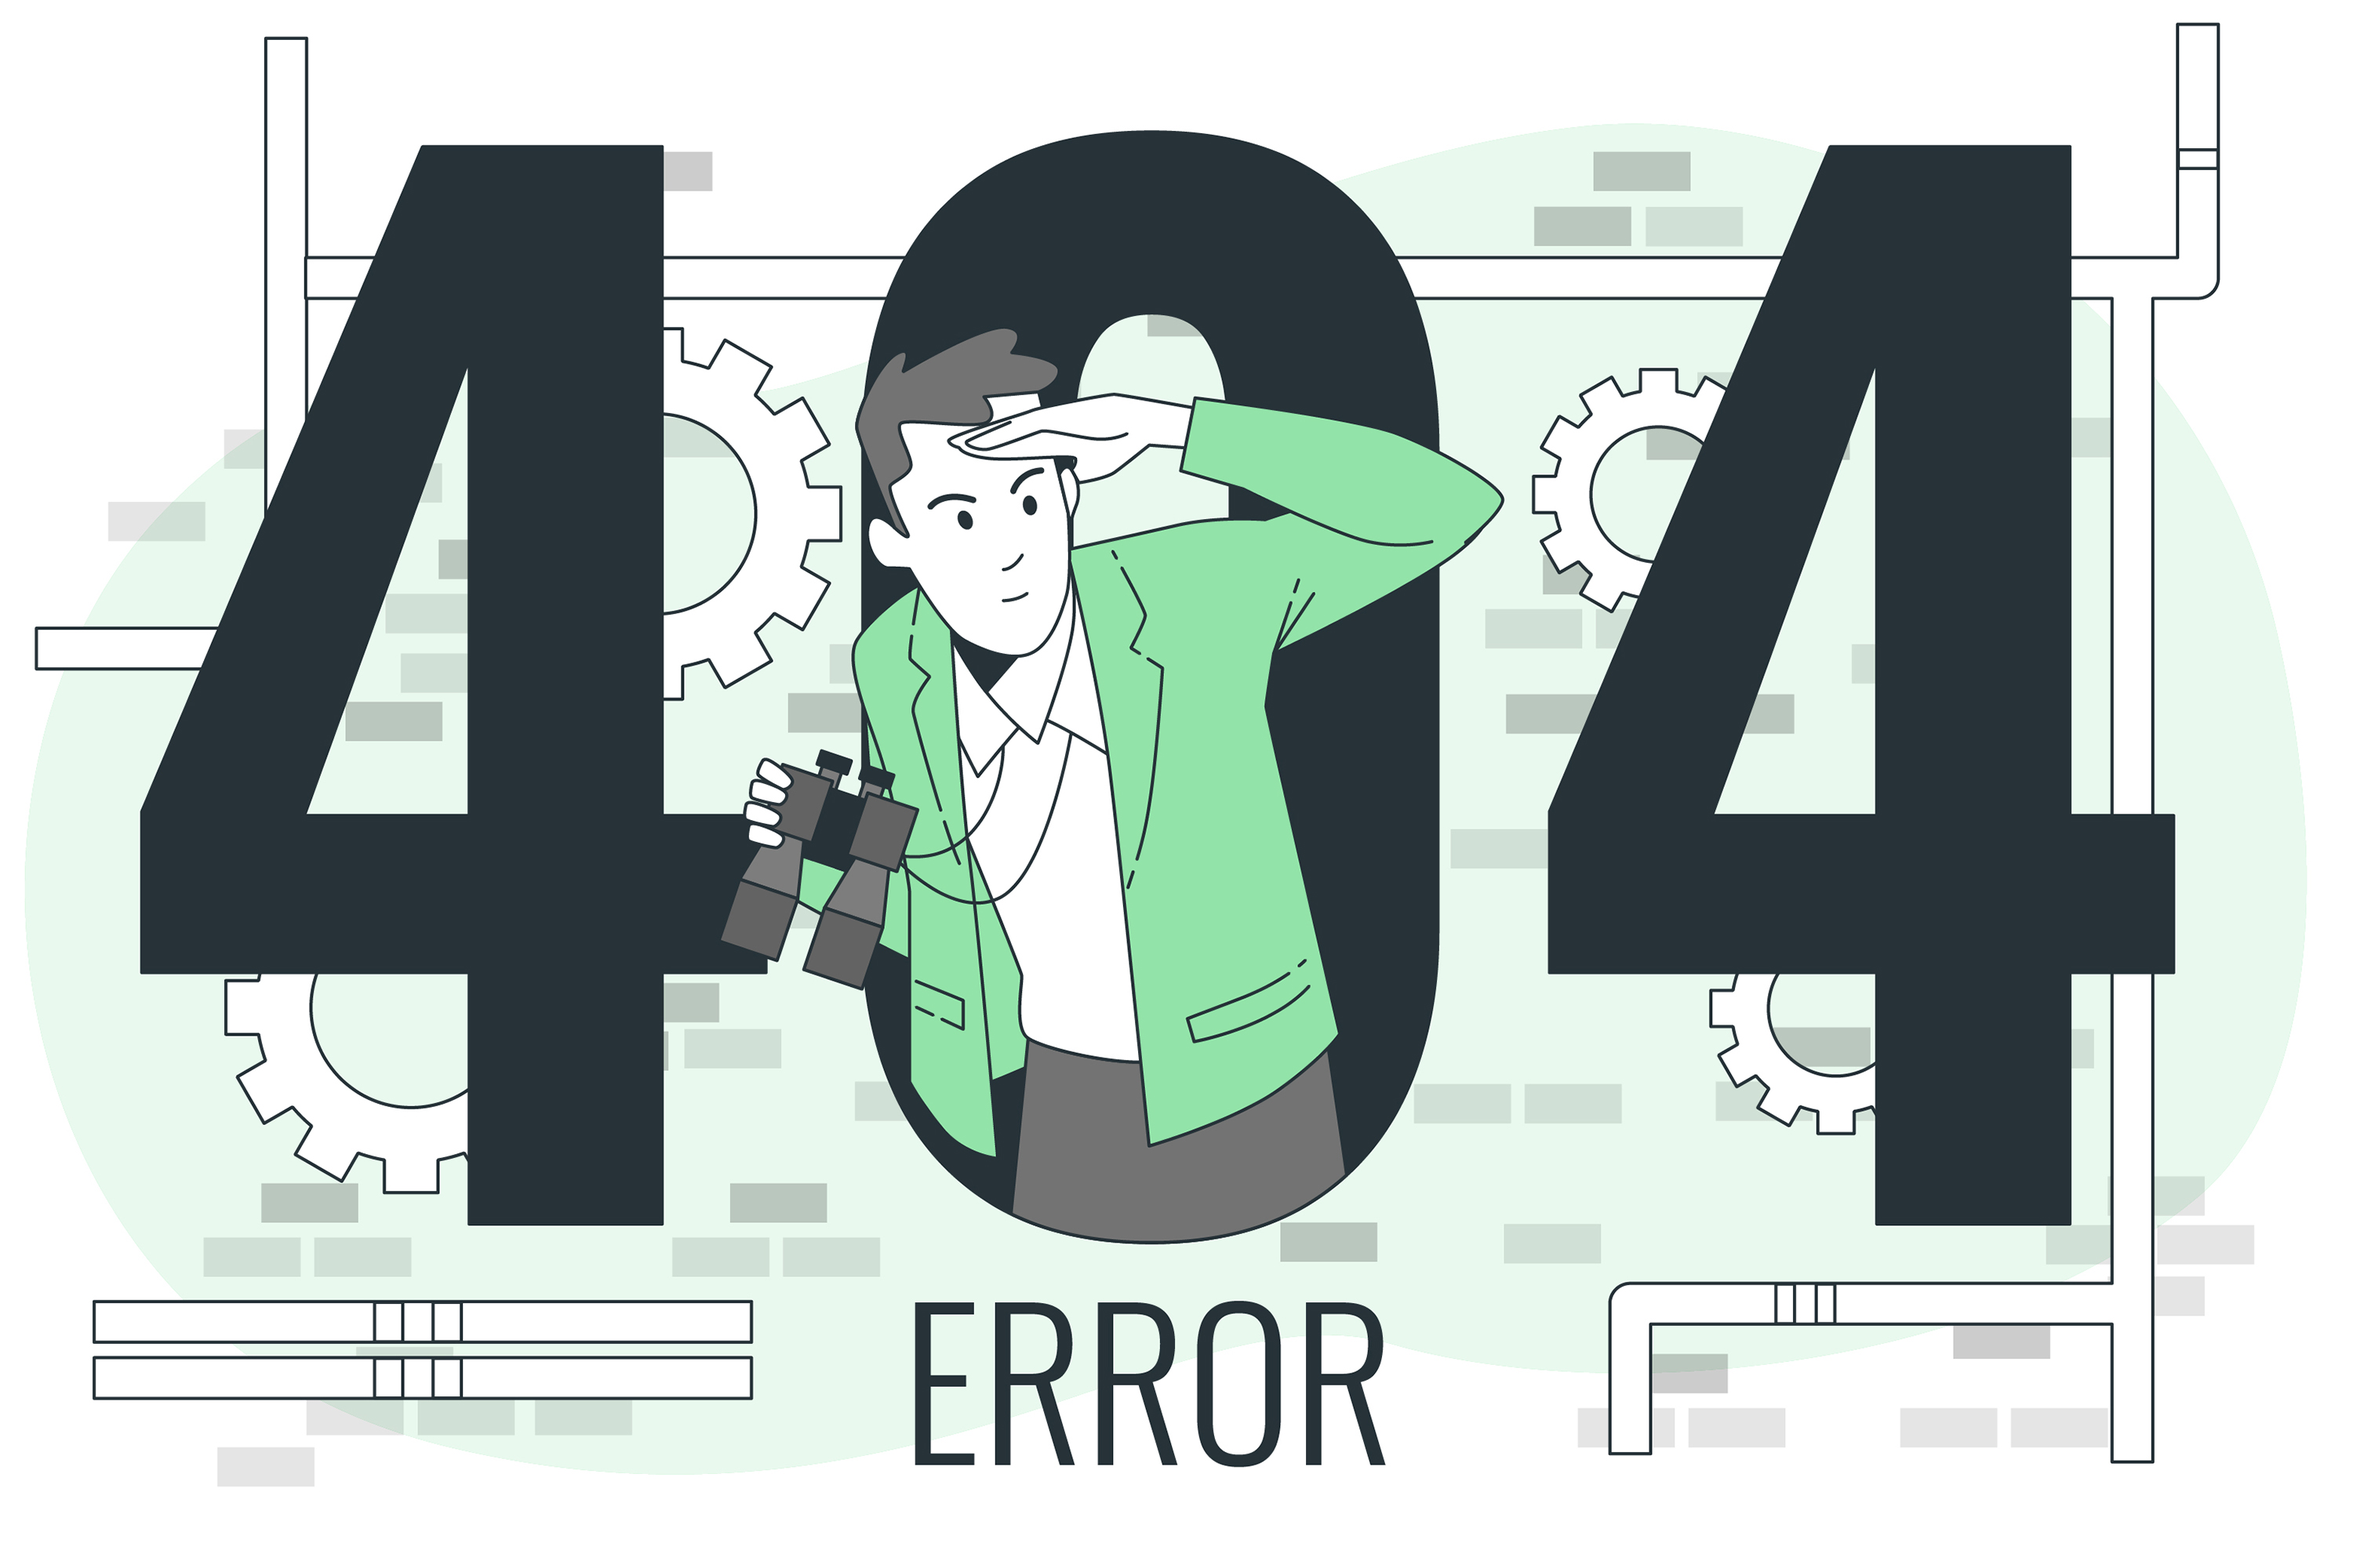
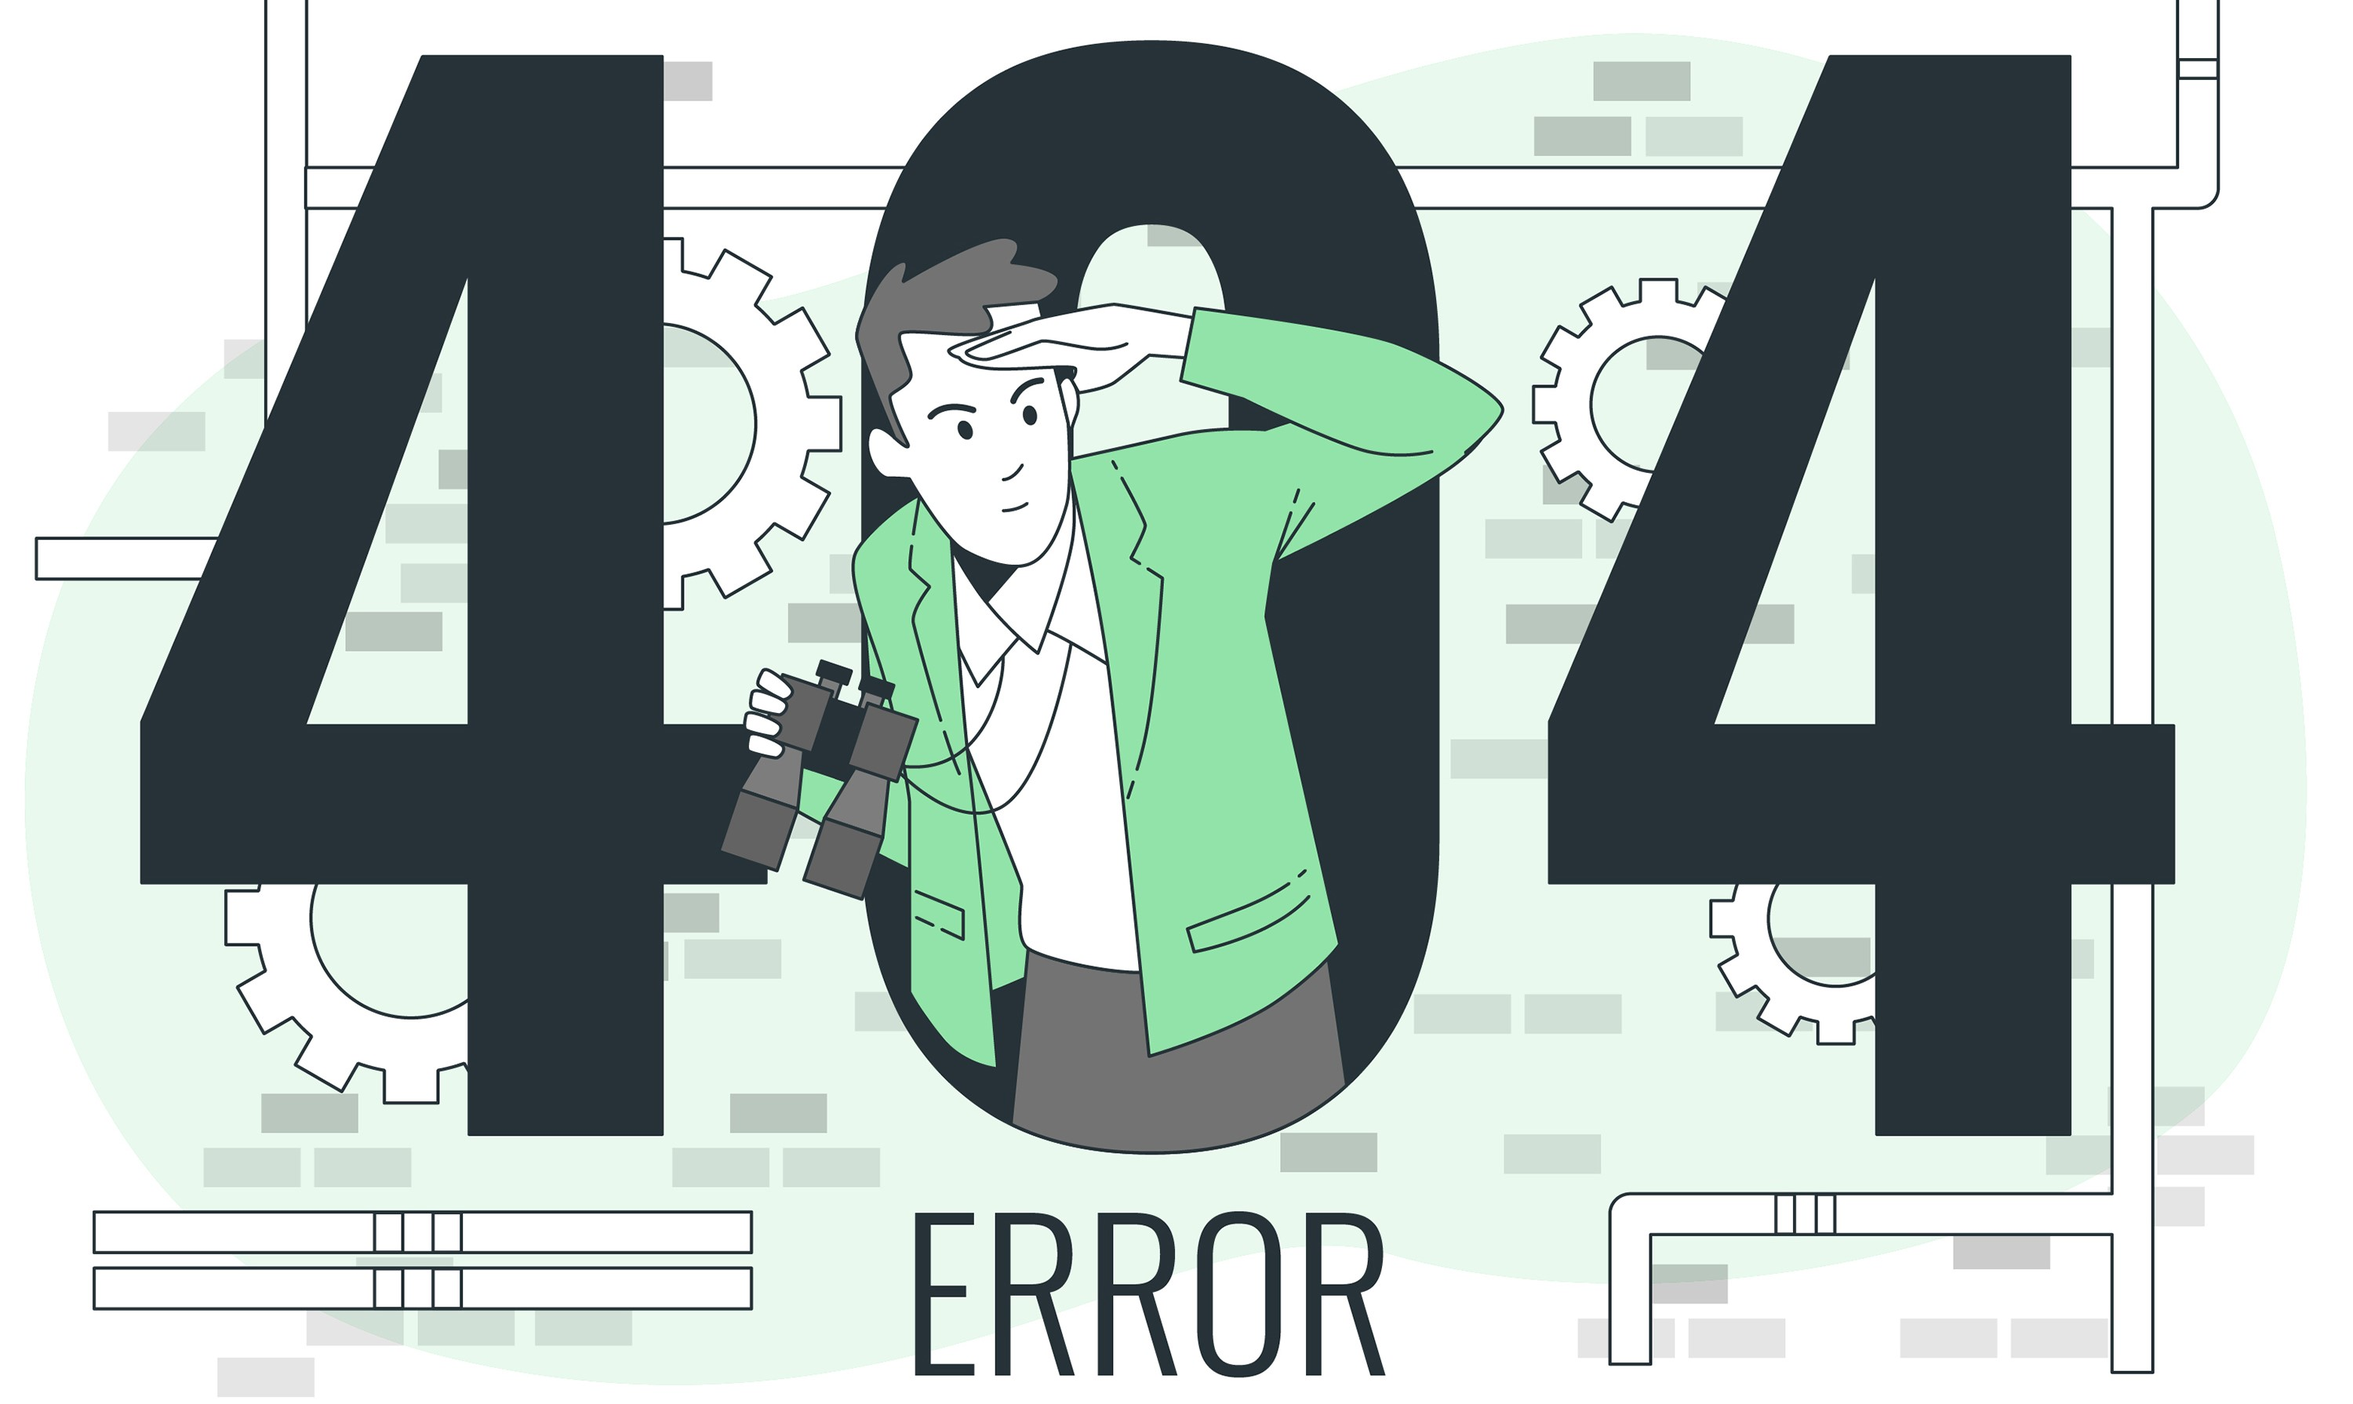
something done

diff --git a/src/components/AdminDashboard/AdminDashboard.js b/src/components/AdminDashboard/AdminDashboard.js
@@ -1,27 +1,75 @@
-import React from "react";
-// import { Link, Outlet } from "react-router-dom";
+import React, { useEffect, useState } from "react";
+import info from "../../assets/images/logo/info.png";
+import manage from "../../assets/images/logo/manage.png";
+import { Link } from "react-router-dom";
 
 const Dashboard = () => {
+  const [users, setUsers] = useState([]);
+  useEffect(() => {
+    fetch("https://floating-gorge-66618.herokuapp.com/user")
+      .then((res) => res.json())
+      .then((data) => setUsers(data));
+  }, []);
+
   return (
-    <div className="drawer drawer-end">
-      <input id="my-drawer-4" type="checkbox" className="drawer-toggle" />
-      <div className="drawer-content">
-        {/* <!-- Page content here --> */}
-        <label htmlFor="my-drawer-4" className="drawer-button btn btn-primary">
-          Open drawer
-        </label>
+    <div className="grid grid-cols-1 lg:grid-cols-4 gap-5 mt-10">
+      <div className="bg-blue-400 border rounded-lg h-40 flex justify-evenly items-center">
+        <div>
+          <h1 className="font-bold text-3xl  text-white font-serif">
+            {users.length}K
+          </h1>
+          <h3 className="font-bold text-xl  text-white font-serif">Users</h3>
+        </div>
+        <Link
+          to="/admin/dashboard/users"
+          className="flex  btn btn-ghost btn-sm"
+        >
+          <h5 className="font-semibold font-serif text-white">Manage Admin</h5>
+          <img className="w-5 ml-1" src={manage} alt="" />
+        </Link>
       </div>
-      <div className="drawer-side">
-        <label htmlFor="my-drawer-4" className="drawer-overlay"></label>
-        <ul className="menu p-4 w-80 bg-base-100 text-base-content">
-          {/* <!-- Sidebar content here --> */}
-          <li>
-            <a>Sidebar Item 1</a>
-          </li>
-          <li>
-            <a>Sidebar Item 2</a>
-          </li>
-        </ul>
+      <div className="bg-green-400 border rounded-lg h-40 flex justify-evenly items-center">
+        <div>
+          <h1 className="font-bold text-3xl  text-white font-serif">
+            {users.length + 1}K
+          </h1>
+          <h3 className="font-bold text-xl  text-white font-serif">Books</h3>
+        </div>
+        <div className="flex">
+          <h5 className="font-semibold font-serif text-white">Details </h5>
+          <img className="w-5 ml-1" src={info} alt="" />
+        </div>
+      </div>
+      <div className="bg-yellow-400 border rounded-lg h-40 flex justify-evenly items-center">
+        <div>
+          <h1 className="font-bold text-3xl  text-white font-serif">
+            {users.length}00
+          </h1>
+          <h3 className="font-bold text-xl  text-white font-serif">Reviews</h3>
+        </div>
+        <div className="flex">
+          <h5 className="font-semibold font-serif text-white">Details </h5>
+          <img className="w-5 ml-1" src={info} alt="" />
+        </div>
+      </div>
+      <div className="bg-red-400 border rounded-lg h-40 flex justify-evenly items-center">
+        <div>
+          <h1 className="font-bold text-3xl  text-white font-serif">
+            {users.length}
+          </h1>
+          <h3 className="font-bold text-xl  text-white font-serif">
+            Librarian
+          </h3>
+        </div>
+        <div className="flex">
+          <Link
+            to="/admin/dashboard/librarians"
+            className="font-semibold text-xs font-serif text-white flex  btn btn-ghost btn-sm"
+          >
+            Manage <br /> Librarian
+            <img className="w-5 ml-1" src={manage} alt="" />
+          </Link>
+        </div>
       </div>
     </div>
   );

diff --git a/src/components/AdminDashboard/SingleUser.js b/src/components/AdminDashboard/SingleUser.js
@@ -1,9 +1,9 @@
 import React from "react";
 
-const User = ({ serial, user }) => {
-  const handleMakeAdmin = () => {
+const SingleUser = ({ serial, user }) => {
+  const handleMakeLibrarian = () => {
     fetch(
-      `https://floating-gorge-66618.herokuapp.com/user/admin/${user.email}`,
+      `https://floating-gorge-66618.herokuapp.com/user/librarian/${user.email}`,
       {
         method: "PUT",
         headers: {
@@ -13,7 +13,7 @@ const User = ({ serial, user }) => {
     )
       .then((res) => {
         if (res.status === 403) {
-          alert(`Failed to Make Admin ${user.admin}`);
+          alert(`Failed to Make Librarian ${user.admin}`);
         }
         return res.json();
       })
@@ -26,7 +26,7 @@ const User = ({ serial, user }) => {
   };
   const handleRemoveAccess = () => {
     fetch(
-      `https://floating-gorge-66618.herokuapp.com/user/removeAdmin/${user.email}`,
+      `https://floating-gorge-66618.herokuapp.com/user/removeLibrarian/${user.email}`,
       {
         method: "PUT",
         headers: {
@@ -36,7 +36,7 @@ const User = ({ serial, user }) => {
     )
       .then((res) => {
         if (res.status === 403) {
-          alert(`Failed to remove Admin ${user.email}`);
+          alert(`Failed to remove Librarian ${user.email}`);
         }
         return res.json();
       })
@@ -62,6 +62,7 @@ const User = ({ serial, user }) => {
           {user.role === "admin" && (
             <button
               onClick={handleRemoveAccess}
+              disabled
               className="btn btn-xs btn-error text-white font-serif hover:bg-white hover:text-error"
             >
               Remove Access
@@ -69,7 +70,6 @@ const User = ({ serial, user }) => {
           )}
           {user.role === "librarian" && (
             <button
-              disabled
               onClick={handleRemoveAccess}
               className="btn btn-xs btn-error text-white font-serif hover:bg-white hover:text-error"
             >
@@ -78,10 +78,10 @@ const User = ({ serial, user }) => {
           )}
           {!user.role && (
             <button
-              onClick={handleMakeAdmin}
-              className="btn btn-xs btn-success text-white font-serif hover:bg-white hover:text-success "
+              onClick={handleMakeLibrarian}
+              className="btn btn-xs btn-success text-white font-serif hover:bg-white hover:text-success"
             >
-              Make Admin
+              Make Librarian
             </button>
           )}
         </td>
@@ -90,4 +90,4 @@ const User = ({ serial, user }) => {
   );
 };
 
-export default User;
+export default SingleUser;

diff --git a/src/components/AdminDashboard/LibrarianManage.js b/src/components/AdminDashboard/LibrarianManage.js
@@ -1,9 +1,9 @@
 import React from "react";
 import { Link } from "react-router-dom";
 import useUsers from "../../hooks/useUsers";
-import User from "./User";
+import SingleUser from "./SingleUser";
 
-const Users = () => {
+const LibrarianManage = () => {
   const [users] = useUsers();
 
   return (
@@ -14,7 +14,7 @@ const Users = () => {
           Boi Exchange
         </span>
       </h1>
-      <h3 className="font-bold font-serif text-white text-center text-xl">Admin Management</h3>
+      <h3 className="font-bold font-serif text-white text-center text-xl">Librarian Management</h3>
       <div className="flex justify-center my-3">
         <Link
           to="/admin/dashboard"
@@ -36,7 +36,11 @@ const Users = () => {
           </thead>
           <tbody>
             {users.map((user, index) => (
-              <User serial={index + 1} user={user} key={user._id}></User>
+              <SingleUser
+                serial={index + 1}
+                user={user}
+                key={user._id}
+              ></SingleUser>
             ))}
           </tbody>
         </table>
@@ -45,4 +49,4 @@ const Users = () => {
   );
 };
 
-export default Users;
+export default LibrarianManage;

diff --git a/src/App.js b/src/App.js
@@ -18,6 +18,8 @@ import RequestsPage from "./components/RequestsPage/RequestsPage";
 import ExchangeRequestAccept from "./components/RequestsPage/ExchangeRequestAccept";
 import BorrowRequestAccept from "./components/RequestsPage/BorrowRequestAccept";
 import { ToastContainer } from "react-toastify";
+import Users from "./components/AdminDashboard/Users";
+import LibrarianManage from "./components/AdminDashboard/LibrarianManage";
 
 function App() {
   return (
@@ -57,12 +59,17 @@ function App() {
           }
         ></Route>
         <Route
-          path="/dashboard"
+          path="/admin/dashboard"
           element={
             <RequireAdmin>
               <AdminDashboard></AdminDashboard>
             </RequireAdmin>
           }
+        ></Route>
+        <Route path="/admin/dashboard/users" element={<Users></Users>}></Route>
+        <Route
+          path="/admin/dashboard/librarians"
+          element={<LibrarianManage></LibrarianManage>}
         ></Route>
         <Route path="*" element={<NotFound></NotFound>}></Route>
       </Routes>

diff --git a/src/hooks/useUsers.js b/src/hooks/useUsers.js
@@ -1,0 +1,13 @@
+import { useState, useEffect } from "react";
+
+const useUsers = () => {
+  const [users, setUsers] = useState([]);
+  useEffect(() => {
+    fetch("https://floating-gorge-66618.herokuapp.com/user")
+      .then((res) => res.json())
+      .then((data) => setUsers(data));
+  }, []);
+  return [users];
+};
+
+export default useUsers;

diff --git a/src/components/Navbar/Navbar.js b/src/components/Navbar/Navbar.js
@@ -106,7 +106,7 @@ const Navbar = () => {
                     </li>
                   ) : (
                     <li>
-                      <Link to="/dashboard">Dashboard</Link>
+                      <Link to="/admin/dashboard">Dashboard</Link>
                     </li>
                   )}
                   <li>

diff --git a/src/components/NotFound/NotFound.js b/src/components/NotFound/NotFound.js
@@ -4,7 +4,7 @@ import Footer from "../Footer/Footer";
 
 const NotFound = () => {
   return (
-    <div className="pt-10">
+    <div className="pt-0">
       <img src={notFound} alt="" />
       <Footer></Footer>
     </div>

diff --git a/README.md b/README.md
@@ -1,16 +1,16 @@
+# Boi Exchange
+##### Book Borrow & Return System
+
 Live Site Link: [Click Here](https://boi-exchange-web.web.app/) 
-# (Working On)
-For User, you can use -
+
+* For User, you can use -
 Email: abc@def.com
 Password: 123456
 
+* For Admin, you can use -
+Email: admin@boi.exchange
+Password: 123456
 
-<!-- For Admin, you can use -
-(update soon)
-Email:
-Password:
-
-For Librarian, you can use -
-(update soon)
-Email:
-Password: -->
+* For Librarian, you can use -
+Email: librarian@boi.exchange
+Password: 123456
